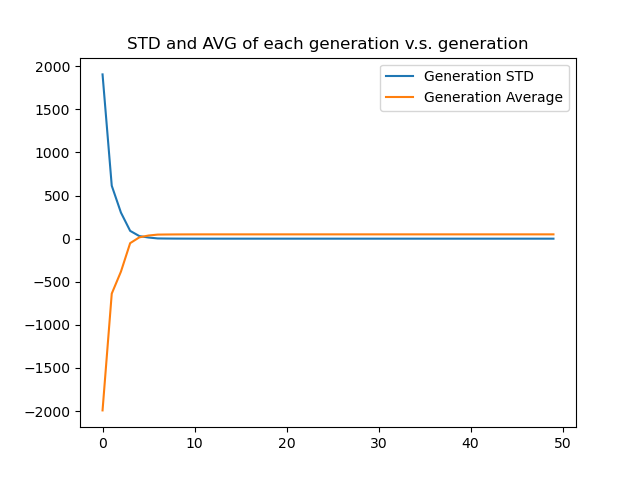
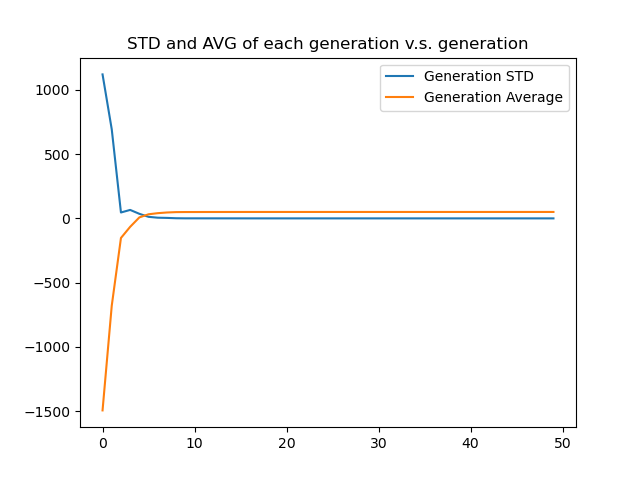
Modified

diff --git a/Week4/ev2.py b/Week4/ev2.py
@@ -71,8 +71,8 @@ class EV1_Config:
 #Simple 1-D fitness function example, solving parabolic equations problems. Finding the max of function
 #Also the x s.t. it gets the global maxima.
 def fitnessFunc(x):
-    # result = 50.0 - x*x
-    result = -10 - (0.04*x)**2 + 10 * np.cos(0.04*np.pi*x)
+    result = 50.0 - x*x
+    # result = -10 - (0.04*x)**2 + 10 * np.cos(0.04*np.pi*x)
     #print(f"fitness result {result}")
     return result
 
@@ -274,7 +274,7 @@ def main(argv=None):
         x = np.arange(-100,100,0.1)
         plt.title("Fitness Funciton")
         plt.plot(x,fitnessFunc(x))
-        plt.savefig(filepath + "Rastrigin.png")
+        plt.savefig(filepath + "Parabola.png")
         plt.show()
 
         #Plot fitness and state Value v.s. generation

diff --git a/Week4/README.md b/Week4/README.md
@@ -1,5 +1,9 @@
 # To do list
+# Excecuting the file
 
+```
+    python ev2.py -i ev2.cfg
+```
 ## To enable self adpative do the following
 1. Remove mutationProb and mutationStddev, they are no longer needed, since a sigma would be added to each individual
 
